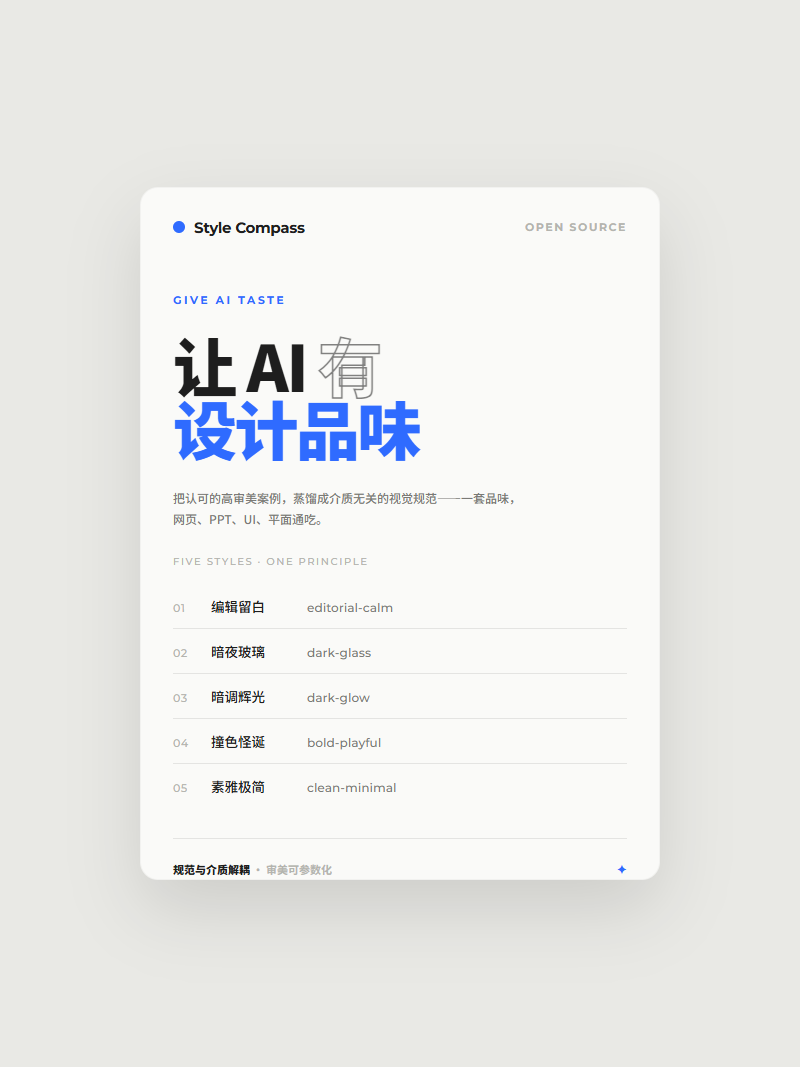
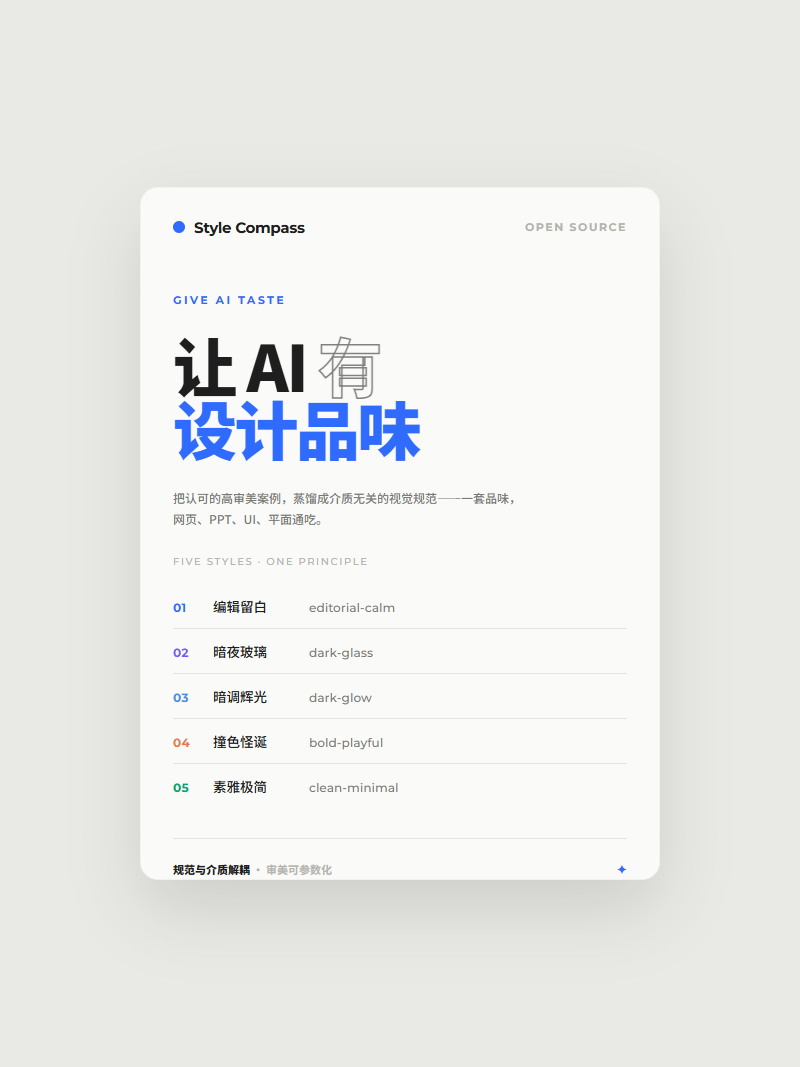
refine(poster): two-line glow title + colored-num style list
- poster-glow: collapse headline from 3 lines to 2 (让AI / 有设计品味) to free space,
  thin the subtitle one size, add bottom breathing room
- poster-light: restore colored numbers (small colored digits instead of blocks) for the
  style list - keeps the color-accent idea, avoids block collision, small text area
- bottom margins widened so the footer isn't pinned to the edge

diff --git a/examples/style-compass/poster-glow.html b/examples/style-compass/poster-glow.html
@@ -43,13 +43,14 @@
   .meta{font-size:10px;color:var(--dim);letter-spacing:.14em;text-transform:uppercase}
 
   .head{margin-bottom:auto}
-  .tag{font-family:var(--en);font-size:10.5px;letter-spacing:.26em;color:var(--glow2);text-transform:uppercase;margin-bottom:22px}
-  .head h1{font-weight:900;line-height:1.04;letter-spacing:-.03em;font-size:clamp(2.8rem,12vw,4rem)}
-  .head h1 span{display:block}
+  .tag{font-family:var(--en);font-size:10.5px;letter-spacing:.26em;color:var(--glow2);text-transform:uppercase;margin-bottom:20px}
+  .head h1{font-weight:900;line-height:1.02;letter-spacing:-.03em;font-size:clamp(3rem,13vw,4.2rem)}
+  .head h1 .l1,.head h1 .l2{display:block}
+  .head h1 .l2 .l3{display:inline}
   .head h1 .l1{color:var(--ink);text-shadow:0 0 30px rgba(255,179,71,.4)}
   .head h1 .l2{color:var(--glow2);text-shadow:0 0 34px rgba(232,93,58,.7)}
   .head h1 .l3{color:var(--ink)}
-  .head p{font-size:13px;color:var(--dim);margin-top:30px;max-width:82%;line-height:1.8}
+  .head .sub{font-size:11.5px;color:var(--dim);margin-top:24px;max-width:80%;line-height:1.8}
 
   /* 风格列表：单列竖向光点列表，聚焦不散 */
   .styles-cap{font-family:var(--en);font-size:10px;color:var(--dim);letter-spacing:.18em;text-transform:uppercase;margin-bottom:16px}
@@ -61,7 +62,7 @@
   .chip .en{font-family:var(--en);font-size:10px;color:var(--dim);margin-left:auto;letter-spacing:.04em}
   .c1{color:var(--glow2)}.c2{color:#FF6B6B}.c3{color:#FFB347}.c4{color:#FF8C5A}.c5{color:#FFD166}
 
-  .foot{margin-top:24px;padding-top:20px;border-top:1px solid var(--line);display:flex;justify-content:space-between;align-items:center}
+  .foot{margin-top:32px;padding-top:18px;border-top:1px solid var(--line);display:flex;justify-content:space-between;align-items:center}
   .foot .t{font-size:10.5px;color:var(--dim)}
   .foot .t b{color:var(--ink);font-weight:700}
 </style>
@@ -75,8 +76,8 @@
       </div>
       <div class="head">
         <div class="tag">Give AI Taste</div>
-        <h1><span class="l1">让 AI</span><span class="l2">有设计</span><span class="l3">品味</span></h1>
-        <p>把认可的高审美案例，蒸馏成介质无关的视觉规范——一套品味，网页、PPT、UI、平面通吃。</p>
+        <h1><span class="l1">让 AI</span><span class="l2">有设计<span class="l3">品味</span></span></h1>
+        <p class="sub">把认可的高审美案例，蒸馏成介质无关的视觉规范——一套品味，网页、PPT、UI、平面通吃。</p>
       </div>
       <div class="list">
         <div class="chip"><span class="dot c1"></span><span class="cn">编辑留白</span><span class="en">editorial-calm</span></div>

diff --git a/examples/style-compass/poster-light.html b/examples/style-compass/poster-light.html
@@ -47,9 +47,10 @@
   .list{display:flex;flex-direction:column;gap:0}
   .item{display:flex;align-items:baseline;gap:14px;padding:12px 0;border-top:1px solid var(--line)}
   .item:first-child{border-top:none}
-  .item .num{font-family:var(--en);font-size:11px;color:var(--faint);width:24px;flex-shrink:0;letter-spacing:.04em}
+  .item .num{font-family:var(--en);font-size:12px;font-weight:700;width:26px;flex-shrink:0;letter-spacing:.02em}
   .item .cn{font-size:13.5px;font-weight:500;color:var(--ink);width:82px;flex-shrink:0}
   .item .en{font-family:var(--en);font-size:12px;color:var(--dim);font-weight:500;letter-spacing:.01em}
+  .n1{color:#2F6BFF}.n2{color:#7A5AF8}.n3{color:#4A90E2}.n4{color:#E07B4A}.n5{color:#00A86B}
 
   .foot{margin-top:30px;padding-top:20px;border-top:1px solid var(--line);display:flex;justify-content:space-between;align-items:center}
   .foot .t{font-size:11px;color:var(--faint);font-weight:600}
@@ -71,11 +72,11 @@
     <div class="styles">
       <div class="cap">Five Styles · One Principle</div>
       <div class="list">
-        <div class="item"><span class="num">01</span><span class="cn">编辑留白</span><span class="en">editorial-calm</span></div>
-        <div class="item"><span class="num">02</span><span class="cn">暗夜玻璃</span><span class="en">dark-glass</span></div>
-        <div class="item"><span class="num">03</span><span class="cn">暗调辉光</span><span class="en">dark-glow</span></div>
-        <div class="item"><span class="num">04</span><span class="cn">撞色怪诞</span><span class="en">bold-playful</span></div>
-        <div class="item"><span class="num">05</span><span class="cn">素雅极简</span><span class="en">clean-minimal</span></div>
+        <div class="item"><span class="num n1">01</span><span class="cn">编辑留白</span><span class="en">editorial-calm</span></div>
+        <div class="item"><span class="num n2">02</span><span class="cn">暗夜玻璃</span><span class="en">dark-glass</span></div>
+        <div class="item"><span class="num n3">03</span><span class="cn">暗调辉光</span><span class="en">dark-glow</span></div>
+        <div class="item"><span class="num n4">04</span><span class="cn">撞色怪诞</span><span class="en">bold-playful</span></div>
+        <div class="item"><span class="num n5">05</span><span class="cn">素雅极简</span><span class="en">clean-minimal</span></div>
       </div>
     </div>
     <div class="foot">
